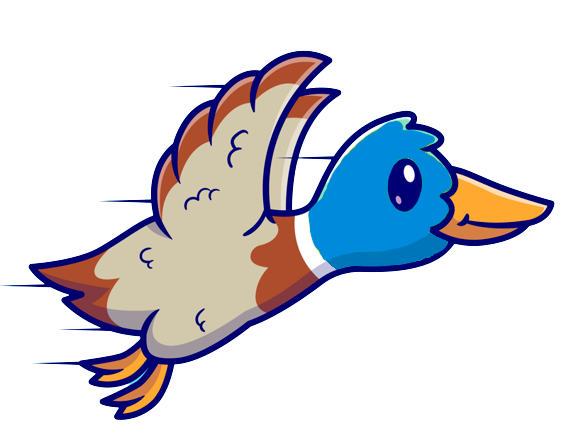
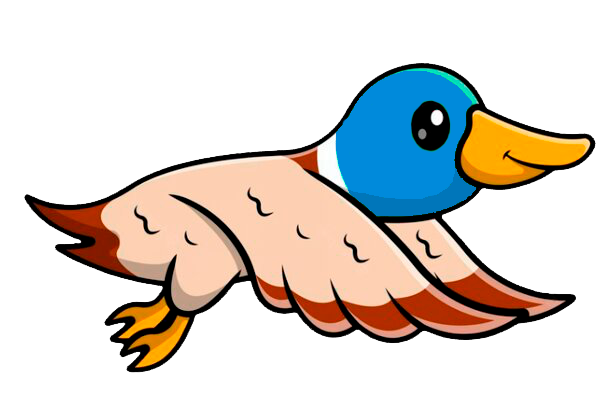
Hard mode

diff --git a/app/scripts/Duck.ts b/app/scripts/Duck.ts
@@ -1,6 +1,5 @@
 import { v4 as uuidv4 } from 'uuid';
-import { DEFAULT_HEIGHT, DEFAULT_SCORE, DEFAULT_WIDTH, DEFAULT_X_VELOCITY, DEFAULT_Y_VELOCITY, DuckInterface, FRAME_INTERVAL, VERTICAL_FALL } from '../model/Duck.interface';
-
+import { DUCKS_PROPERTIES, DuckInterface, DuckType, FRAME_INTERVAL, VERTICAL_FALL } from '../model/Duck.interface';
 export class Duck implements DuckInterface{
     id: string;
 
@@ -12,25 +11,36 @@ export class Duck implements DuckInterface{
     isAlive: boolean = true;
     isFlying: boolean = true;
     isScared: boolean = false;
-    defaultScore: number = DEFAULT_SCORE;
+    defaultScore: number;
+    type: DuckType;
 
-    private width: number = DEFAULT_WIDTH;
-    private height: number = DEFAULT_HEIGHT;
+    private width: number;
+    private height: number;
     private gameContainer: HTMLDivElement = document.querySelector('.game-container');
 
-    private flyingImages: string[] = ['../public/images/duck1.png', '../public/images/duck2.png'];
-    private deathImage: string = '../../public/images/dead_duck.png';
+    private flyingImages: string[];
+    private deathImage: string;
     private flyingImagesToogle: boolean = true;
 
     private frameCount: number = 0; // Counter for frames
     private frameChangeInterval: number = FRAME_INTERVAL; // Change image every 10 frames
 
-    constructor() {
+    constructor(type: DuckType) {
         this.id = uuidv4();
+        this.type = type;
+        this.setPropertiesByType();
+        this.setProportionalVelocity();
         this.xPosition = Math.random() * (this.gameContainer.offsetWidth - this.width);
         this.yPosition = Math.random() * (this.gameContainer.offsetHeight - this.height);
+    }
 
-        this.setProportionalVelocity();
+    setPropertiesByType() {
+        this.flyingImages = [`../public/images/${this.type}_duck1.png`, `../public/images/${this.type}_duck2.png`];
+        this.deathImage = `../../public/images/${this.type}_duck_dead.png`;
+
+        this.width = DUCKS_PROPERTIES[this.type].width;
+        this.height = DUCKS_PROPERTIES[this.type].height;
+        this.defaultScore = DUCKS_PROPERTIES[this.type].score;
     }
 
     fly(): void {
@@ -154,7 +164,7 @@ export class Duck implements DuckInterface{
     }
 
     private setProportionalVelocity() {
-        this.xVelocity =  DEFAULT_X_VELOCITY * (this.gameContainer.offsetWidth / this.gameContainer.offsetHeight);
-        this.yVelocity = DEFAULT_Y_VELOCITY * (this.gameContainer.offsetHeight / this.gameContainer.offsetWidth); 
+        this.xVelocity =  DUCKS_PROPERTIES[this.type].xVelocity * (this.gameContainer.offsetWidth / this.gameContainer.offsetHeight);
+        this.yVelocity = DUCKS_PROPERTIES[this.type].yVelocity * (this.gameContainer.offsetHeight / this.gameContainer.offsetWidth);         
     }
 }

diff --git a/app/scripts/main.ts b/app/scripts/main.ts
@@ -1,3 +1,4 @@
+import { DuckType, GROUP_OF_DUCKS } from "../model/Duck.interface";
 import { Duck } from "./Duck";
 import { ScoreStorage } from "./ScoreStorage";
 
@@ -9,6 +10,8 @@ let countdownControls: {
     resume: () => void;
 };
 
+const normalDucksGroup = GROUP_OF_DUCKS;
+
 // Score
 let score: number = 0;
 const ducks: Duck[] = [];
@@ -17,8 +20,8 @@ const scoreElement: HTMLElement = document.querySelector('#score');
 // Waves code
 startNewWave();
 
-function createDuckElement(): void {
-    const duck = new Duck();
+function createDuckElement(type: DuckType): void {
+    const duck = new Duck(type);
     const duckElement = duck.render();
     gameContainer.appendChild(duckElement);
 
@@ -102,10 +105,23 @@ function startNewWave(): void {
     }, 1500);
 
     setTimeout(() => {
+        // normal ducks
         for (let numberOfDucks = 0; numberOfDucks < wave; numberOfDucks++) {
-            createDuckElement();
+            createDuckElement(DuckType.normal);
         }
     
+        // special ducks
+        const specialDucks = (Math.floor(wave / normalDucksGroup));
+        if (specialDucks !== 0) {
+            for (let tankDucks = 0; tankDucks < specialDucks; tankDucks++) {
+                createDuckElement(DuckType.tank);
+            }
+
+            for (let fastDucks = 0; fastDucks < specialDucks; fastDucks++) {
+                createDuckElement(DuckType.fast);
+            }
+        }
+
         startDucksActions();
     }, 1000)
 }
@@ -181,7 +197,7 @@ function pauseGame(): void {
 }
 
 function startCountdown(wave: number) {
-    let seconds = wave <= 3 ? 10 : (wave * 2);
+    let seconds = wave <= 3 ? 10 : (wave * 3);
 
     function updateCountdown() {
         const countdownElement = document.getElementById('seconds');

diff --git a/app/model/Duck.interface.ts b/app/model/Duck.interface.ts
@@ -1,25 +1,32 @@
-// Default duck
-export const DEFAULT_X_VELOCITY:number = 2;
-export const DEFAULT_Y_VELOCITY:number = 2;
-export const DEFAULT_WIDTH: number = 100;
-export const DEFAULT_HEIGHT: number = 70;
-export const DEFAULT_SCORE: number = 1;
 export const FRAME_INTERVAL: number = 10;
 export const VERTICAL_FALL: number = 7;
 
-// Tank duck
-export const DEFAULT_TANK_X_VELOCITY:number = 1;
-export const DEFAULT_TANK_Y_VELOCITY:number = 1;
-export const DEFAULT_TANK_WIDTH: number = 140;
-export const DEFAULT_TANK_HEIGHT: number = 80;
-export const DEFAULT_TANK_SCORE: number = 2;
+export const DUCKS_PROPERTIES = {
+    normal : {
+        xVelocity: 2,
+        yVelocity: 2,
+        width: 100,
+        height: 70,
+        score: 5,
+    },
+    tank: {
+        xVelocity: 1,
+        yVelocity: 1,
+        width: 140,
+        height: 80,
+        score: 10,
+    },
+    fast: {
+        xVelocity: 3,
+        yVelocity: 3,
+        width: 70,
+        height: 60,
+        score: 15,
+    },
+}
 
-// Fast duck
-export const DEFAULT_FAST_X_VELOCITY:number = 3;
-export const DEFAULT_FAST_Y_VELOCITY:number = 3;
-export const DEFAULT_FAST_WIDTH: number = 70;
-export const DEFAULT_FAST_HEIGHT: number = 60;
-export const DEFAULT_FAST_SCORE: number = 3;
+// Generate special ducks each X normal
+export const GROUP_OF_DUCKS: number = 4;
 
 export interface DuckInterface {
     id: string;
@@ -31,4 +38,11 @@ export interface DuckInterface {
     isFlying: boolean;
     isScared: boolean;
     defaultScore: number;
+    type: DuckType;
+}
+
+export enum DuckType {
+    normal = 'normal',
+    tank = 'tank',
+    fast = 'fast',
 }

diff --git a/public/styles/game.scss b/public/styles/game.scss
@@ -118,7 +118,6 @@
 
 .duck {
     position: absolute;
-    width: 100px;
     
     transition: transform 0.1s linear;
 
@@ -129,10 +128,6 @@
     
     @include tablet-portrait {
         width: 50px;
-    }
-
-    img {
-        width: 100%;
     }
 }
 
